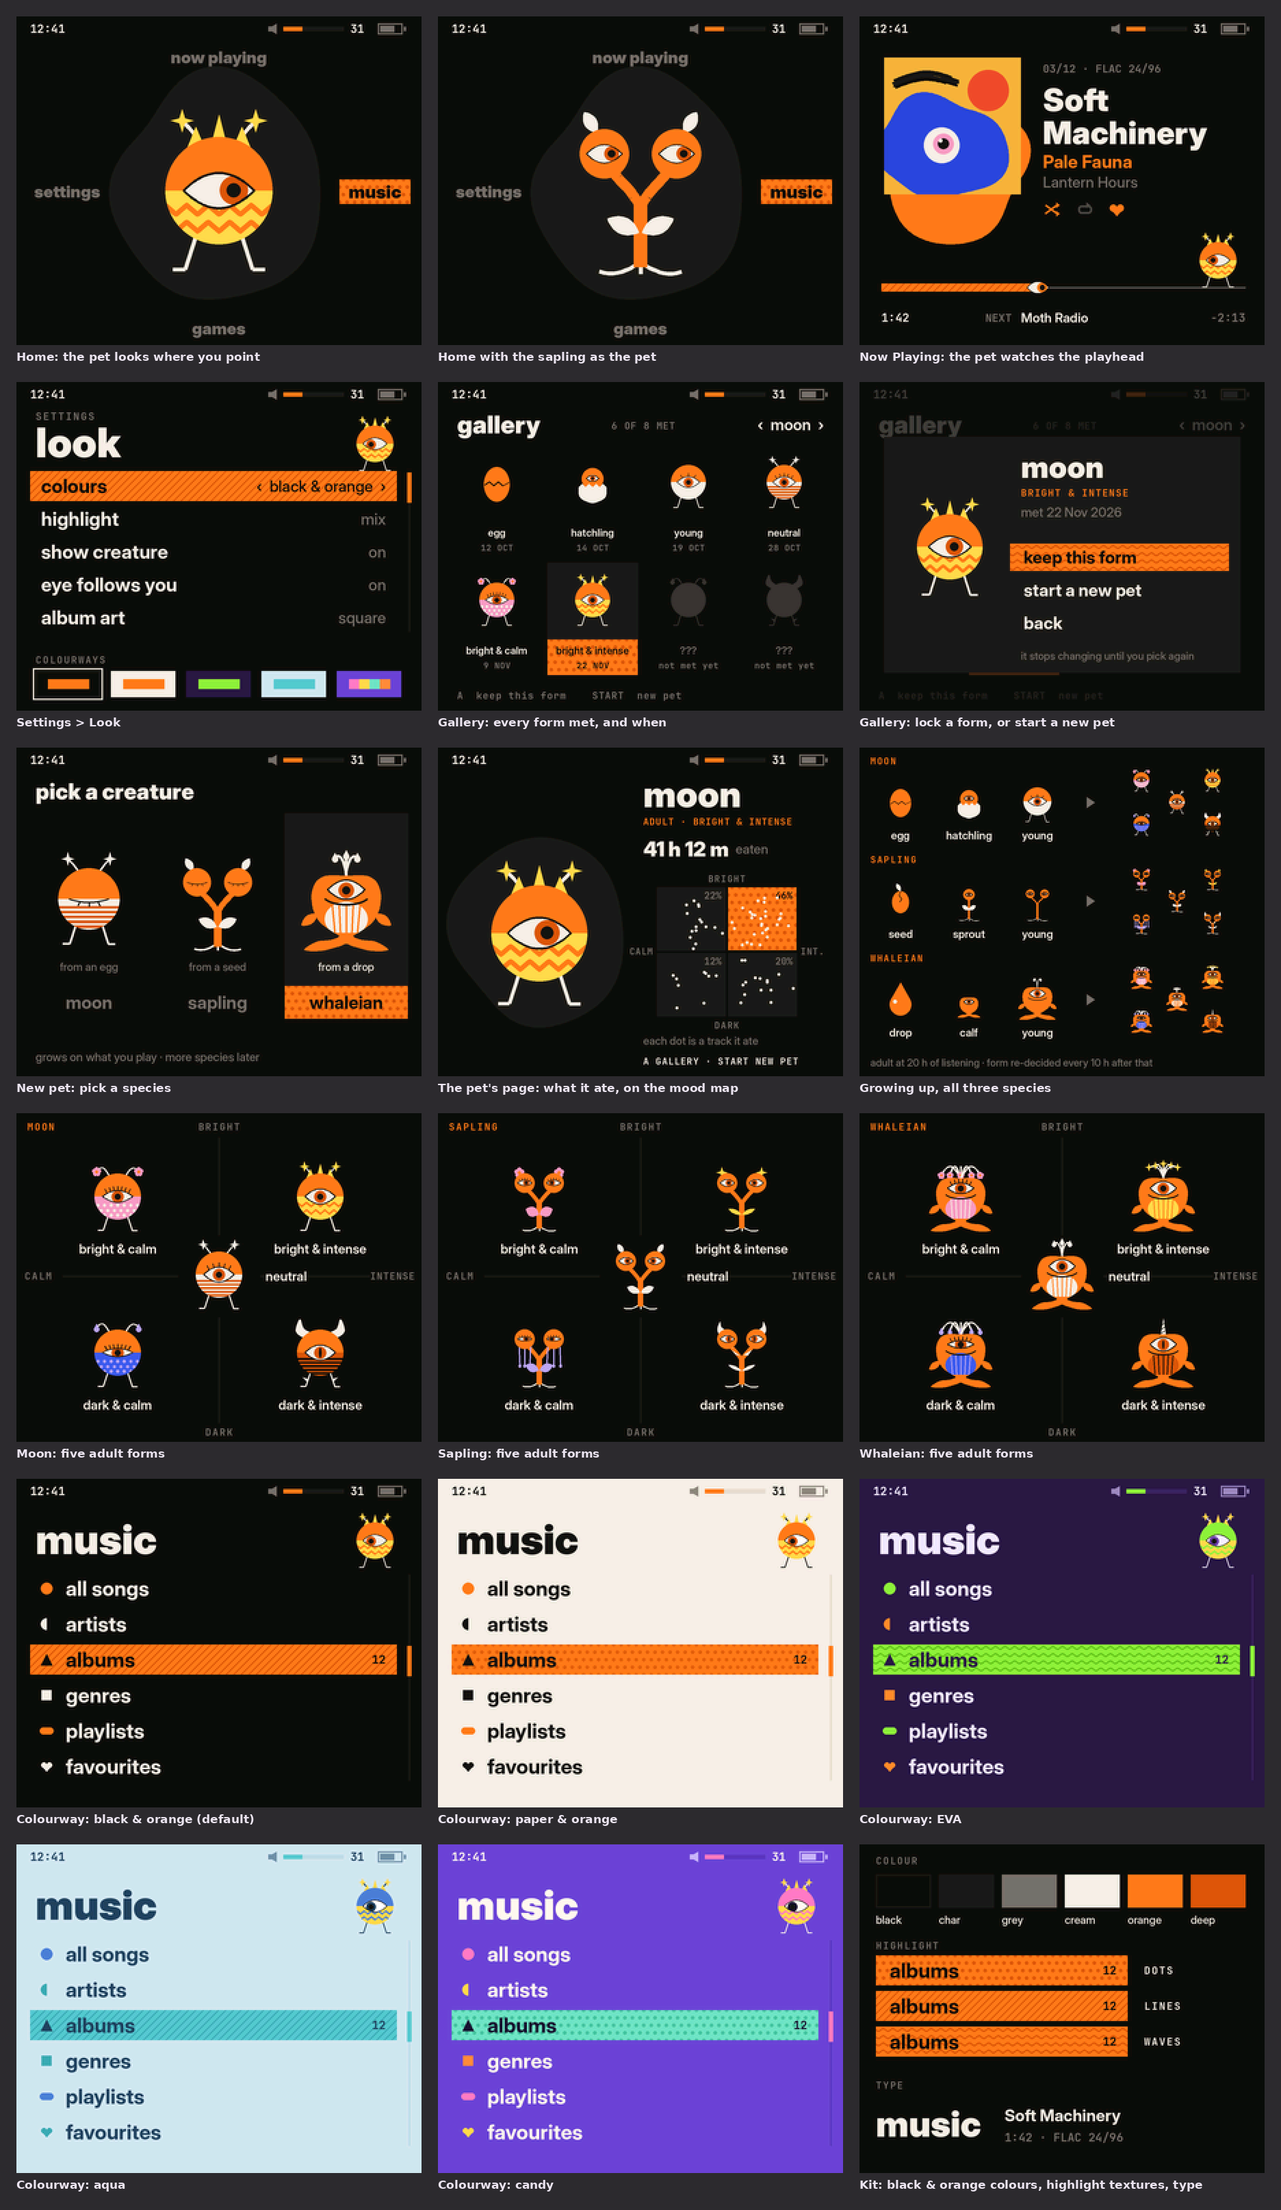
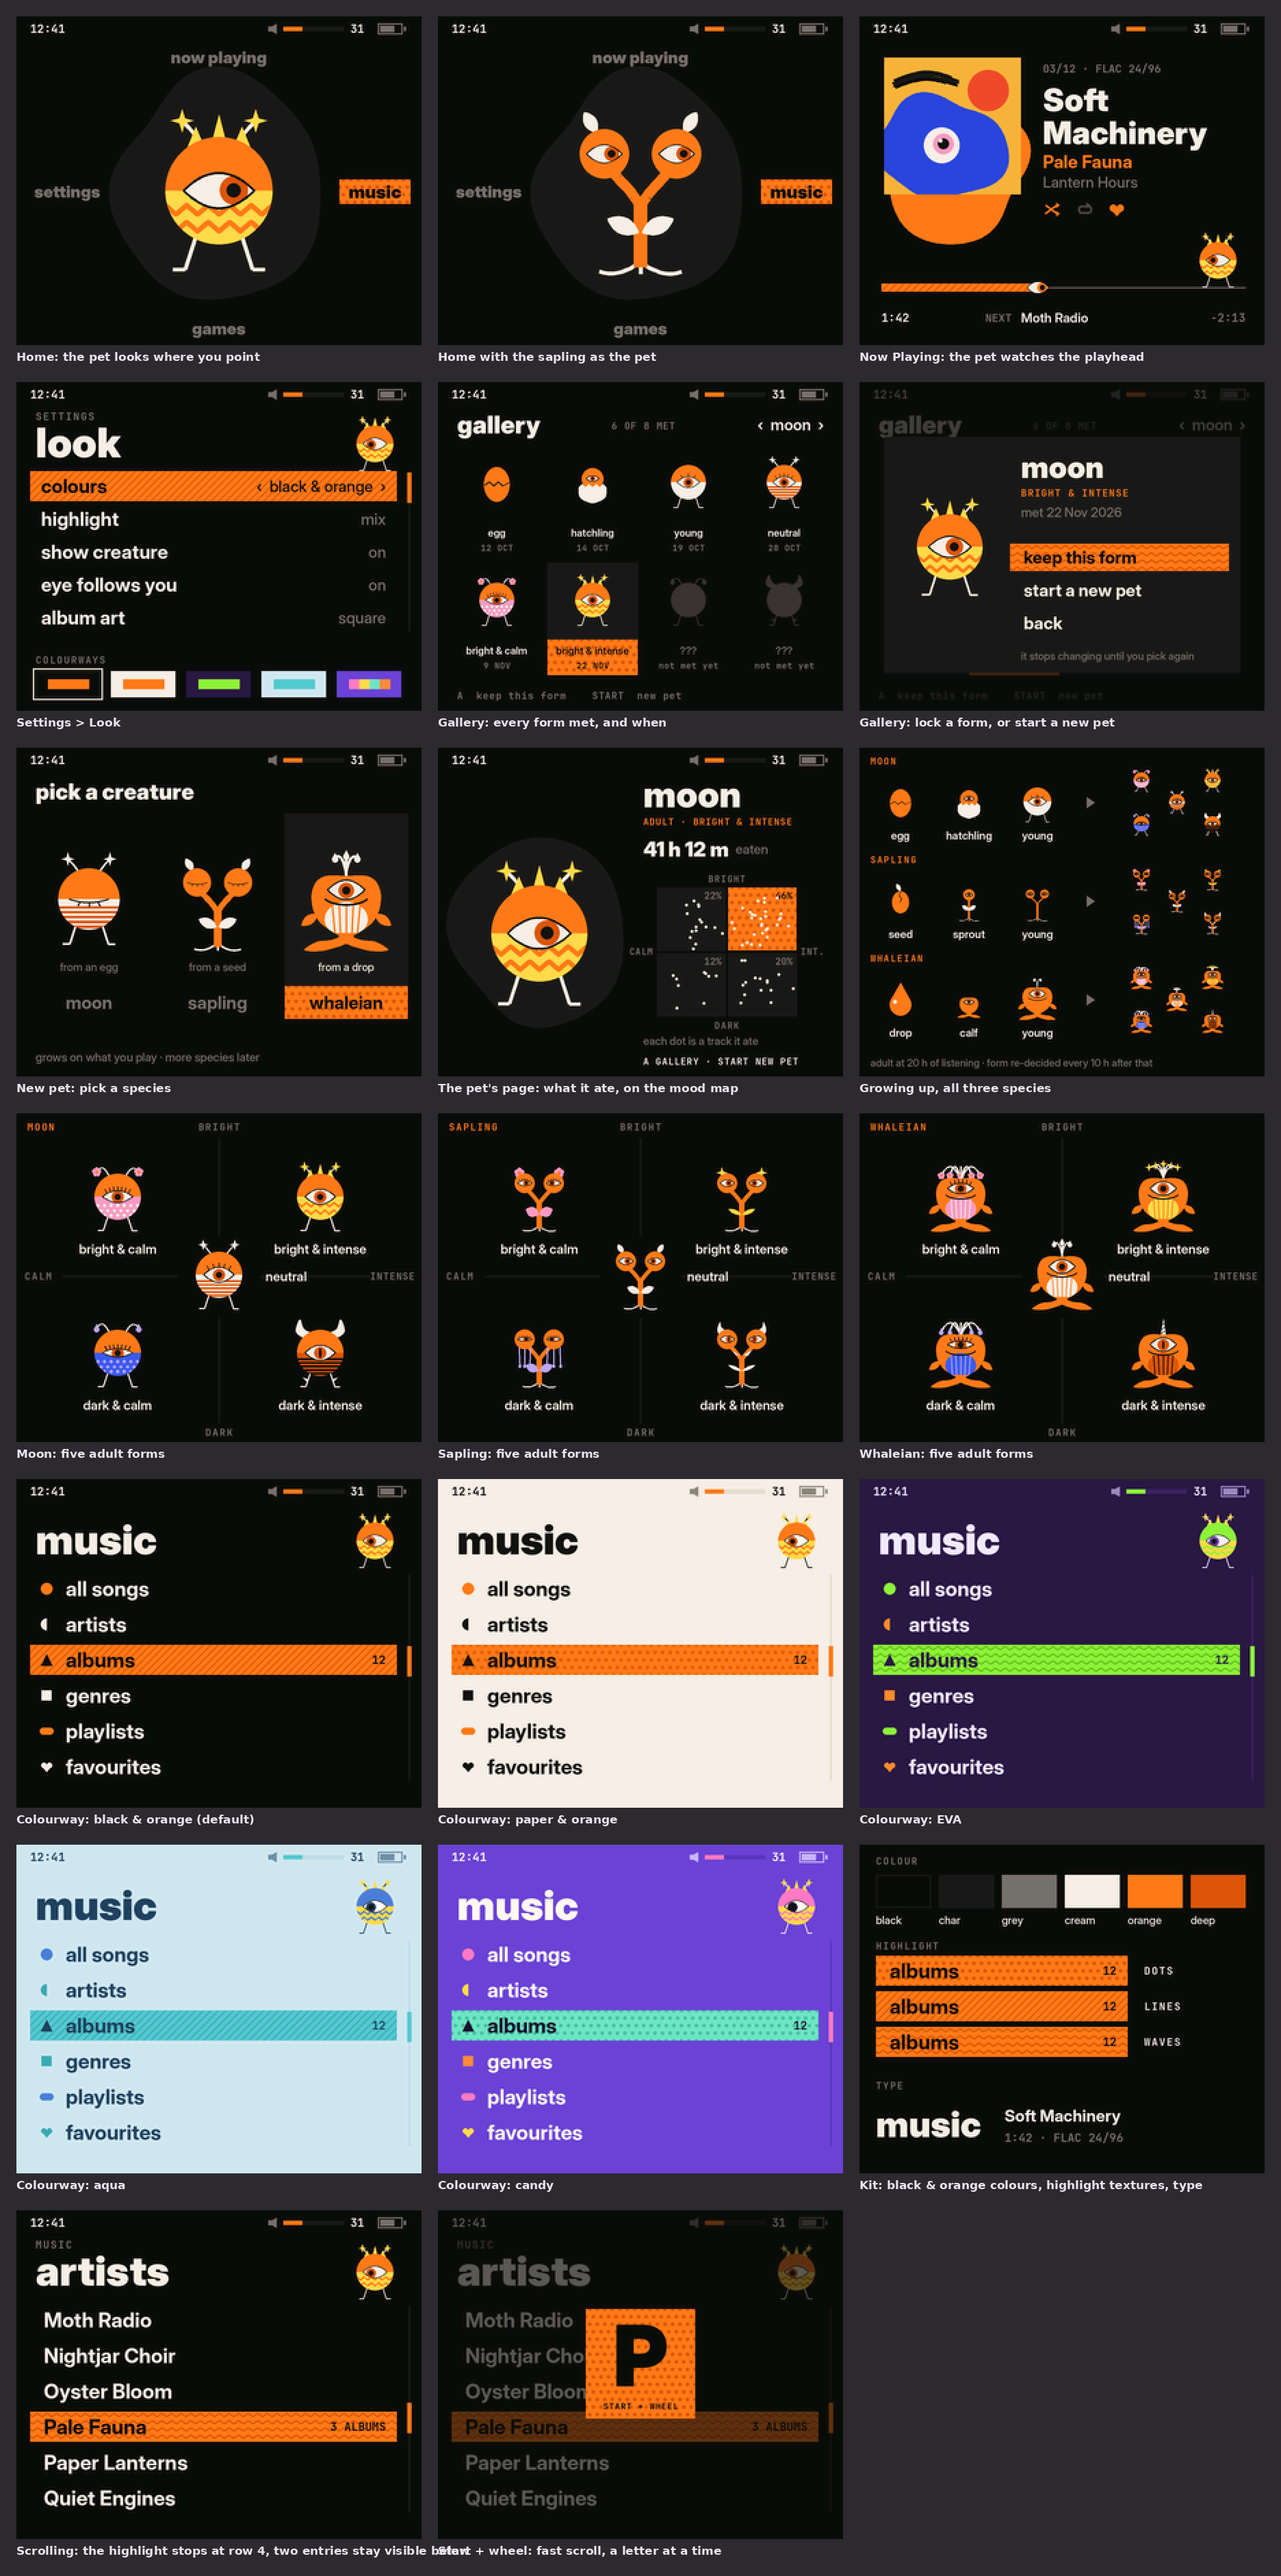
Rename to MoonletOS; wheel modifiers and the list scroll margin
- The fork is now MoonletOS. The plan, README banner, build docs and
  notices use the name; amuletOS's licence, credit and its own README
  stay.
- The internal disk's USB identity becomes "MOONLET" / "OS AP30". The
  SCSI vendor field holds 8 characters, so Windows shows "MOONLET OS
  AP30 USB Device". The hook still builds against stock V1.8.3 at
  56 bytes. Build 14 on the player still says AMULETOS until the next
  image.
- Wheel controls (owner's decision): the wheel alone sets the volume,
  Select + wheel scrolls one entry per notch (seeks on Now Playing), and
  Start + wheel fast-scrolls a letter or a page at a time. Both keys'
  own actions move to release.
- Lists start scrolling when the highlight reaches row 4 of 6, so the
  next two entries stay visible below it.

Two new mock-ups: a list mid-scroll and the fast-scroll letter.

Claude-Session: https://claude.ai/code/session_01GwW98uCXgtToVDTVv1jSQm

diff --git a/amuletos/art/mockups/colourways.py b/amuletos/art/mockups/colourways.py
@@ -255,7 +255,8 @@ def mark(d, k, x, y, c):
     elif k == 'pill': d.rounded_rectangle([X - r * 1.2, Y - r * 0.6, X + r * 1.2, Y + r * 0.6], radius=r * 0.6, fill=c)
     else: m.glyph(d, 'heart', x, y, 10, c)
 
-def menu(title, rows, sel, tex, crumb=None, values=None, y0=80, pitch=26, show_pet=True, look=(-0.8, 0.6)):
+def menu(title, rows, sel, tex, crumb=None, values=None, y0=80, pitch=26, show_pet=True, look=(-0.8, 0.6),
+         thumb=None, count='12', marks=True):
     cv = canvas()
     d = ImageDraw.Draw(cv, 'RGBA')
     status(cv)
@@ -268,16 +269,18 @@ def menu(title, rows, sel, tex, crumb=None, values=None, y0=80, pitch=26, show_p
         if on: d = bar(cv, 10, y - 11, 278, y + 11, tex, k=i)
         fg = T['bartext'] if on else T['text']
         if values is None:
-            mk = T['marks'][i % len(T['marks'])]
-            mark(d, MARKS[i % 6], 22, y, T['bartext'] if on else mk)
-            txt(d, 36, y, label, 15, fg, BOLD)
-            if on: txt(d, 270, y, '12', 8.5, fg, MONO, h='r')
+            if marks:
+                mk = T['marks'][i % len(T['marks'])]
+                mark(d, MARKS[i % 6], 22, y, T['bartext'] if on else mk)
+            txt(d, 36 if marks else 20, y, label, 15, fg, BOLD)
+            if on and count: txt(d, 270, y, count, 8.5, fg, MONO, h='r')
         else:
             txt(d, 18, y, label, 14, fg, BOLD)
             v = values[i]
             txt(d, 270, y, f'‹  {v}  ›' if on else v, 11.5, fg if on else T['dim'], MED, h='r')
     d.line([(P(287), P(y0 - 10)), (P(287), P(y0 + pitch * (len(rows) - 1) + 10))], fill=T['panel'], width=P(1.2))
-    t0 = y0 - 10 + (sel / max(1, len(rows))) * pitch * len(rows)
+    t0 = y0 - 10 + (sel / max(1, len(rows))) * pitch * len(rows) if thumb is None else \
+         y0 - 10 + thumb * (pitch * (len(rows) - 1) + 20 - 22)
     d.rectangle([P(285.5), P(t0), P(288.5), P(t0 + 22)], fill=T['bars'][0])
     return cv
 
@@ -388,6 +391,24 @@ def whale_adults():
         d = ImageDraw.Draw(cv, 'RGBA')
         txt(d, x + (34 if form == 'neutral' else 0), y + (0 if form == 'neutral' else 37), name, 9.5, T['text'], SEMI,
             h='l' if form == 'neutral' else 'm')
+    return cv
+
+# ---------------------------------------------------------------- scrolling: highlight kept off the bottom edge, fast scroll
+ARTISTS = ['Moth Radio', 'Nightjar Choir', 'Oyster Bloom', 'Pale Fauna', 'Paper Lanterns', 'Quiet Engines']
+def list_scroll():
+    """scrolling down a long list: the highlight stops at row 4 of 6, so two entries stay visible below it"""
+    use('black')
+    cv = menu('artists', ARTISTS, 3, 'waves', crumb='MUSIC', thumb=0.55, count='3 ALBUMS', marks=False,
+              y0=80, look=(-0.8, 0.9))
+    return cv
+
+def fast_scroll():
+    """Start + wheel: jumps a letter at a time, with the letter shown big while it moves"""
+    cv = list_scroll()
+    cv.alpha_composite(Image.new('RGBA', cv.size, T['bg'][:3] + (170,)))
+    d = bar(cv, 108, 72, 188, 152, 'dots')
+    txt(d, 148, 106, 'P', 62, T['bartext'], h='m')
+    txt(d, 148, 143, 'START + WHEEL', 6.3, T['bartext'], MONO, h='m', track=0.6)
     return cv
 
 # ---------------------------------------------------------------- home and Now Playing with the pet's real forms

diff --git a/amuletos/art/mockups/overview.py b/amuletos/art/mockups/overview.py
@@ -38,6 +38,8 @@ SCREENS = [
     ('16_colourway_aqua', cw.colourway('aqua', 'lines'), 'Colourway: aqua'),
     ('17_colourway_candy', cw.colourway('candy', 'dots'), 'Colourway: candy'),
     ('18_kit', black(bo.kit), 'Kit: black & orange colours, highlight textures, type'),
+    ('19_list_scroll', cw.list_scroll, 'Scrolling: the highlight stops at row 4, two entries stay visible below'),
+    ('20_fast_scroll', cw.fast_scroll, 'Start + wheel: fast scroll, a letter at a time'),
 ]
 
 if __name__ == '__main__':

diff --git a/amuletos/PLAN.md b/amuletos/PLAN.md
@@ -1,7 +1,8 @@
-# Custom AP30 firmware: plan
+# MoonletOS: plan
 
-A custom firmware for the Hidizs AP30 "Music Boy", forked from [amuletOS](https://github.com/dharma-dingo/amuletOS)
-v0.3 and rebased onto Hidizs's official **V1.8.3**. It is its own project now: no compatibility with amuletOS updates
+**MoonletOS** is a custom firmware for the Hidizs AP30 "Music Boy", forked from
+[amuletOS](https://github.com/dharma-dingo/amuletOS) v0.3 (MIT; its licence and credit stay) and rebased onto
+Hidizs's official **V1.8.3**. It is its own project now: no compatibility with amuletOS updates
 is kept.
 
 Status: **Step 1 builds and runs on the owner's player** (build 14, 2026-11-27). Everything after it is still a
@@ -15,6 +16,7 @@ Never commit Hidizs firmware images (`HIFIYF18.IMG`, `HIFIYF23.IMG`) or anything
 
 | Topic | Decision |
 |---|---|
+| Name | **MoonletOS** (2026-11-27), a play on amuletOS. On USB the internal disk shows as "MOONLET OS AP30" (the SCSI vendor field holds 8 characters) |
 | Base firmware | **V1.8.3** (`HIFIYF23.IMG`): Hidizs's gapless FLAC and other fixes come with it. Every amuletOS patch address is re-found (Step 1). |
 | Controls everywhere | **A direction moves the highlight; A selects; B goes back. No double-tap anywhere.** |
 | Home menu | Up Now Playing · Right Music · Down Games (Blockz inside) · Left Settings (Bluetooth inside) |
@@ -72,6 +74,10 @@ candy bowl, patchwork vinyl cubes, a neon resin table and sun-face cosmetics.
     while it stays visible and gets a new one after scrolling off and back;
   - dots, lines or waves: always that one;
   - plain: no texture.
+- **Scrolling lists keep the highlight off the bottom edge.** Moving down, the list starts scrolling once the
+  highlight reaches the lower middle (row 4 of 6), so the next two entries stay visible below it. Moving up, one
+  entry stays visible above it. At the very top and bottom of a list the highlight goes to the edge. Mock-up
+  `19_list_scroll.png`.
 - **Volume: no pop-up.** Turning the wheel only updates the volume bar in the status bar (a bar plus the number).
   The battery gets its own small icon; in the first mock-ups the bar next to the number was the battery.
 - **The creature** ([the pet](#the-pet)) appears on most screens:
@@ -463,26 +469,34 @@ pink, Black & orange, EVA-01, Light, Dark).
   - hold = stock power-off, unchanged.
 - Auto screen-off timer stays.
 
-**Hold Select to change what the wheel does** (owner's request, 2026-11-27):
-- The wheel alone sets the volume, everywhere. **Select held + wheel = fast scroll** in lists. Also worth having:
-  Select + wheel seeks on Now Playing (to confirm).
-- Fast scroll, proposed: a letter at a time in alphabetical lists, with a big letter on screen while scrolling (as
-  on 00s players); a page at a time in other lists (to confirm).
+**Hold a button to change what the wheel does** (owner's decision, 2026-11-27):
+
+| Held | Wheel does |
+|---|---|
+| nothing | volume, everywhere (the status bar's volume bar moves; no pop-up) |
+| **Select** | **scroll one entry per notch** in lists; seek through the track on Now Playing |
+| **Start** | **fast scroll**: a letter at a time in alphabetical lists, with a big letter on screen while it moves (as on 00s players, mock-up `20_fast_scroll.png`); a page at a time in other lists |
+
 - **The hardware allows it:** the face buttons share one resistor ladder (one at a time), but the wheel is a separate
-  quadrature encoder, so Select and the wheel can be read together ([HARDWARE.md](docs/HARDWARE.md)).
+  quadrature encoder, so Select or Start and the wheel can be read together ([HARDWARE.md](docs/HARDWARE.md)).
 - **Stock code blocks it** (V1.8.3, traced 2026-11-27):
   - `GetKey` (0x03063282) only polls the wheel (0x03062D54: step counters 0x03024724 / 0x03024725, total
     0x03024728) when no face-button event is in progress (flag word 0x03024840, bits 0–2 clear). Turns made while a
     button is down wait in the counters.
   - A wheel event also clears the button state (0x0302481C + 8, + 0x0C, + 0x20). Wheel events are always exactly
     0x40000200 / 0x40000400, never combined with a button's code.
-- **Patch:** in `GetKey`, when the wheel has moved and the current ladder key (decoder 0x03062FA8) is Select,
-  return new events 0x40000202 / 0x40000402 (the wheel's code plus Select's bit) and keep Select's state. Screens
-  that don't know these events ignore them, so nothing changes the volume by accident.
-- **Select's own action moves to release.** Today it fires on press (e.g. playback options on Now Playing). With
-  the modifier, a tap (press and release with no wheel turn) runs it, and a hold with wheel turns doesn't. That
-  needs the key event types confirmed with a key-test screen: 0x40 is press and 0x30 repeat; release is not
-  confirmed yet.
+- **Patch:** in `GetKey`, when the wheel has moved and the current ladder key (decoder 0x03062FA8) is Select or
+  Start, return new events that add that key's bit to the wheel's code and keep the key's state:
+  - Select + wheel: 0x40000202 / 0x40000402;
+  - Start + wheel: 0x40000300 / 0x40000500.
+
+  Screens that don't know these events ignore them, so nothing changes the volume by accident.
+- **Select's and Start's own actions move to release.** Today they fire on press (e.g. Select opens playback
+  options on Now Playing). With the modifiers, a tap (press and release with no wheel turn) runs the action, and a
+  hold with wheel turns doesn't. That needs the key event types confirmed with a key-test screen: 0x40 is press and
+  0x30 repeat; release is not confirmed yet.
+- Stock's own lists (library browser, Settings) scroll in stock code: the scroll margin and the wheel modifiers
+  need either a patch to their list logic or our own list screens.
 
 **Smaller extras:**
 - **Wheel click = play/pause.** The click is most likely the GPIO2 pin 5 key, which combines with face buttons.

diff --git a/amuletos/README.md b/amuletos/README.md
@@ -1,7 +1,7 @@
-> **This folder is a fork.** It started as [amuletOS](https://github.com/dharma-dingo/amuletOS) v0.3 by dharma-dingo
-> (commit `02f33f9`, MIT licence, see [LICENSE](LICENSE)) and is being developed separately: rebased onto Hidizs's
-> V1.8.3 firmware and extended as described in [PLAN.md](PLAN.md). It is not affiliated with amuletOS or Hidizs.
-> The text below is amuletOS's own README, kept for reference.
+> **This folder is MoonletOS, a fork.** It started as [amuletOS](https://github.com/dharma-dingo/amuletOS) v0.3 by
+> dharma-dingo (commit `02f33f9`, MIT licence, see [LICENSE](LICENSE)) and is being developed separately: rebased
+> onto Hidizs's V1.8.3 firmware and extended as described in [PLAN.md](PLAN.md). It is not affiliated with amuletOS
+> or Hidizs. The text below is amuletOS's own README, kept for reference.
 
 # amuletOS
 

diff --git a/amuletos/docs/TEST_V183.md b/amuletos/docs/TEST_V183.md
@@ -58,7 +58,7 @@ stamp 27 Nov build 14: the build number must beat the installed one's (13), it c
 
 ## USB
 
-- [ ] File transfer on the laptop: the disk is called AMULETOS; copying works.
+- [ ] File transfer on the laptop: the disk is called AMULETOS (builds after 14: MOONLET OS AP30); copying works.
 - [ ] **DAC on the phone**: pick DAC, the phone finds the DAC within a second or so, and sound plays.
 - [ ] Pull the cable out in DAC mode, plug in again, DAC again: still works. Then File transfer still works.
 - [ ] DAC on the laptop.

diff --git a/amuletos/docs/HANDOFF.md b/amuletos/docs/HANDOFF.md
@@ -1,5 +1,8 @@
 # amuletOS handoff (named SchalaOS until build 36)
 
+> amuletOS's own handoff, kept for reference, with a few fork notes added. This fork is now **MoonletOS**: see
+> [PLAN.md](../PLAN.md) for its state and plans.
+
 State of the project at the end of 2026-11-07. Read this first, then `README.md` (status
 checklist, release plan, decisions), `docs/HARDWARE.md` (every technical finding),
 `docs/BLOCKZ.md` (v0.2 game spec) and the Notion product spec.

diff --git a/amuletos/THIRD_PARTY_NOTICES.md b/amuletos/THIRD_PARTY_NOTICES.md
@@ -1,6 +1,6 @@
 # Third-party notices
 
-amuletOS bundles the following code. Both are compiled into the Games screen (`game/device/gbprobe.c`).
+MoonletOS (like amuletOS before it) bundles the following code. Both are compiled into the Games screen (`game/device/gbprobe.c`).
 
 ## Peanut-GB
 

diff --git a/amuletos/BUILDING.md b/amuletos/BUILDING.md
@@ -1,4 +1,4 @@
-# Building on Linux
+# Building MoonletOS on Linux
 
 Tested on Linux x86_64. macOS or Git Bash on Windows should work too.
 
